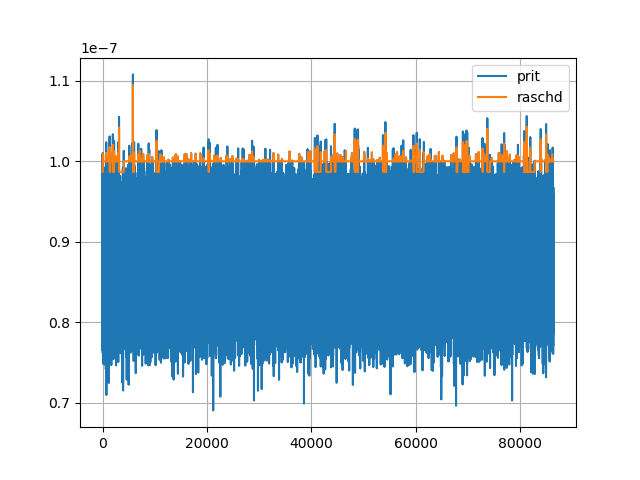
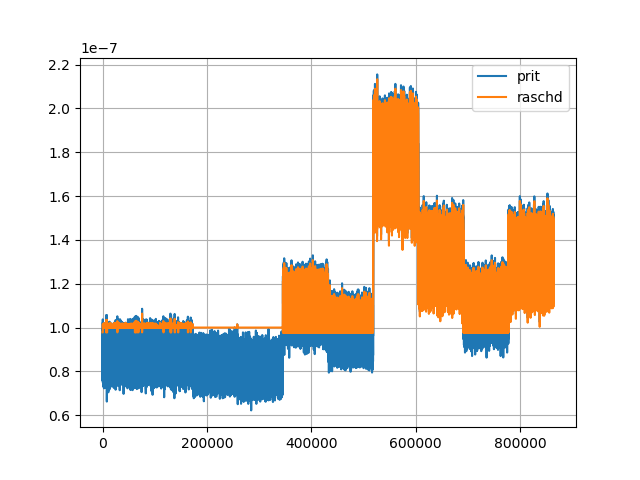
Ver_0.46 With Min Level

diff --git a/GES_Kaskad.py b/GES_Kaskad.py
@@ -119,15 +119,15 @@ def main():
     else:
         file_name = os.getcwd() + '/GES_DATA.json'
     DATA = Grafiki_Ischod.get_struct(file_name)
-    period = 50
+    period = 10
     S_ZERKALA_1 = 4550 * 1000 * 1000
-    MAX_RASHOD_1 = 600
+    MAX_RASHOD_1 = 1000
     VREMYA_POLNOGO_OTKR_1 = 100
     S_ZERKALA_2 = 1591 * 1000 * 1000
-    MAX_RASHOD_2 = 300
+    MAX_RASHOD_2 = 1000
     VREMYA_POLNOGO_OTKR_2 = 60
     S_ZERKALA_3 = 1508 * 1000 * 1000
-    MAX_RASHOD_3 = 300
+    MAX_RASHOD_3 = 1000
     VREMYA_POLNOGO_OTKR_3 = 60
     deltatime = datetime.timedelta(period)
     dateStart = datetime.datetime(2017, 9, 1)
